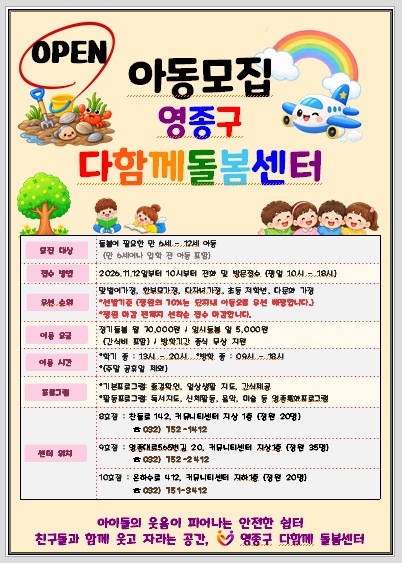
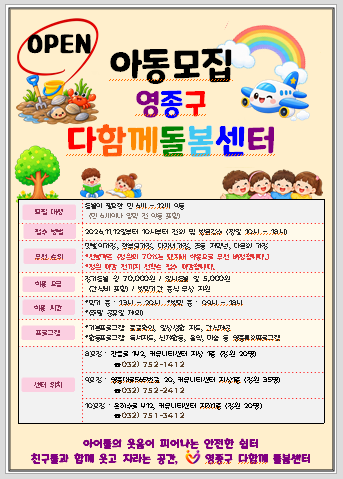
포스터를 새 판(343x479)으로 교체, 우선 배정 비율 10%→70% 정정

diff --git a/index.html b/index.html
@@ -33,7 +33,7 @@ h2.sec{font-size:19px;margin:6px 0 12px}
 </style></head><body><main><div class="hero"><h1>영종 다함께 돌봄센터<br>돌봄 신청</h1></div>
 <img class="flyer" src="flyers/main.png" alt="영종 다함께 돌봄센터 홍보 전단지">
 <h2 class="sec">모집 안내</h2>
-<div class="infobox"><div class="row"><div class="k">모집 대상</div><div class="v"><p>돌봄이 필요한 만 6세 ~ 12세 아동</p><p>(만 6세이나 입학 전 아동 포함)</p></div></div><div class="row"><div class="k">접수 방법</div><div class="v"><p>2026.11.12일부터 10시부터 전화 및 방문접수 (평일 10시 ~ 18시)</p></div></div><div class="row"><div class="k">우선 순위</div><div class="v"><p>맞벌이가정, 한부모가정, 다자녀가정, 초등 저학년, 다문화 가정</p><p>선발기준: 정원의 10%는 단지내 아동으로 우선 배정합니다.</p><p>정원 마감 전까지 선착순 접수 마감합니다.</p></div></div><div class="row"><div class="k">이용 요금</div><div class="v"><p>정기돌봄 월 70,000원 / 일시돌봄 일 5,000원</p><p>(간식비 포함) / 방학기간 중식 무상 지원</p></div></div><div class="row"><div class="k">이용 시간</div><div class="v"><p>학기 중: 13시 ~ 20시</p><p>방학 중: 09시 ~ 18시</p><p>(주말 공휴일 제외)</p></div></div><div class="row"><div class="k">프로그램</div><div class="v"><p>기본프로그램: 출결확인, 일상생활 지도, 간식제공</p><p>활동프로그램: 독서지도, 신체활동, 음악, 미술 등 영종특화프로그램</p></div></div></div>
+<div class="infobox"><div class="row"><div class="k">모집 대상</div><div class="v"><p>돌봄이 필요한 만 6세 ~ 12세 아동</p><p>(만 6세이나 입학 전 아동 포함)</p></div></div><div class="row"><div class="k">접수 방법</div><div class="v"><p>2026.11.12일부터 10시부터 전화 및 방문접수 (평일 10시 ~ 18시)</p></div></div><div class="row"><div class="k">우선 순위</div><div class="v"><p>맞벌이가정, 한부모가정, 다자녀가정, 초등 저학년, 다문화 가정</p><p>선발기준: 정원의 70%는 단지내 아동으로 우선 배정합니다.</p><p>정원 마감 전까지 선착순 접수 마감합니다.</p></div></div><div class="row"><div class="k">이용 요금</div><div class="v"><p>정기돌봄 월 70,000원 / 일시돌봄 일 5,000원</p><p>(간식비 포함) / 방학기간 중식 무상 지원</p></div></div><div class="row"><div class="k">이용 시간</div><div class="v"><p>학기 중: 13시 ~ 20시</p><p>방학 중: 09시 ~ 18시</p><p>(주말 공휴일 제외)</p></div></div><div class="row"><div class="k">프로그램</div><div class="v"><p>기본프로그램: 출결확인, 일상생활 지도, 간식제공</p><p>활동프로그램: 독서지도, 신체활동, 음악, 미술 등 영종특화프로그램</p></div></div></div>
 <h2 class="sec">센터 위치</h2>
 <div class="center"><div class="info"><h3>8호점</h3><p class="addr">찬들로 142, 커뮤니티센터 지상 1층<br>정원 20명<br><a href="tel:032-752-1412">☎ 032) 752-1412</a></p></div>
 <a class="apply c8" href="https://forms.gle/E5fAy72eKyufHbdG8"><span class="ico"><svg viewBox="0 0 24 24" fill="none" stroke="currentColor" stroke-width="2" stroke-linecap="round" stroke-linejoin="round" aria-hidden="true"><path d="M9 11V5.5a1.5 1.5 0 0 1 3 0V10"/><path d="M12 10V4.5a1.5 1.5 0 0 1 3 0V10"/><path d="M15 10V6.5a1.5 1.5 0 0 1 3 0V14a6 6 0 0 1-6 6h-1a6 6 0 0 1-5-2.7L3.6 14a1.5 1.5 0 0 1 2.5-1.7L9 15"/></svg></span>신청하고 싶어요</a></div><div class="center"><div class="info"><h3>9호점</h3><p class="addr">영종대로565번길 20, 커뮤니티센터 지상 1층<br>정원 35명<br><a href="tel:032-752-2412">☎ 032) 752-2412</a></p></div>

diff --git a/build_site.py b/build_site.py
@@ -17,7 +17,7 @@ CENTERS = [  # name = exact option text in the form; address from the form descr
     ('9', '다함께 돌봄센터 9호점', '영종대로565번길 20, 커뮤니티센터 지상 1층'),
     ('10', '다함께 돌봄센터 10호점', '은하수로 412, 커뮤니티센터 지하 1층'),
 ]
-CAPACITY = {'8': '정원 20명', '9': '정원 35명', '10': '정원 20명'}  # from the flyer (flyers/main.png, 2026-11-10 판)
+CAPACITY = {'8': '정원 20명', '9': '정원 35명', '10': '정원 20명'}  # from the flyer (flyers/main.png, 2026-11-10 343x479 판)
 PHONE = {'8': '032) 752-1412', '9': '032) 752-2412', '10': '032) 751-3412'}  # from the flyer (2026-11-10 판)
 def tel(n):
     return '<a href="tel:' + PHONE[n].replace(') ', '-').replace(')', '-') + '">☎ ' + esc(PHONE[n]) + '</a>'
@@ -128,12 +128,12 @@ def main_flyers():
     return ''.join(out)
 
 
-# readable text version of the poster table (the poster image the centre supplied is only 398x540 px,
+# readable text version of the poster table (the poster image the centre supplied is only 343x479 px,
 # so its table text is blurry on phones). Wording copied from the poster; do not edit content here.
 POSTER_INFO = [
     ('모집 대상', ['돌봄이 필요한 만 6세 ~ 12세 아동', '(만 6세이나 입학 전 아동 포함)']),
     ('접수 방법', ['2026.11.12일부터 10시부터 전화 및 방문접수 (평일 10시 ~ 18시)']),
-    ('우선 순위', ['맞벌이가정, 한부모가정, 다자녀가정, 초등 저학년, 다문화 가정', '선발기준: 정원의 10%는 단지내 아동으로 우선 배정합니다.', '정원 마감 전까지 선착순 접수 마감합니다.']),
+    ('우선 순위', ['맞벌이가정, 한부모가정, 다자녀가정, 초등 저학년, 다문화 가정', '선발기준: 정원의 70%는 단지내 아동으로 우선 배정합니다.', '정원 마감 전까지 선착순 접수 마감합니다.']),
     ('이용 요금', ['정기돌봄 월 70,000원 / 일시돌봄 일 5,000원', '(간식비 포함) / 방학기간 중식 무상 지원']),
     ('이용 시간', ['학기 중: 13시 ~ 20시', '방학 중: 09시 ~ 18시', '(주말 공휴일 제외)']),
     ('프로그램', ['기본프로그램: 출결확인, 일상생활 지도, 간식제공', '활동프로그램: 독서지도, 신체활동, 음악, 미술 등 영종특화프로그램']),
